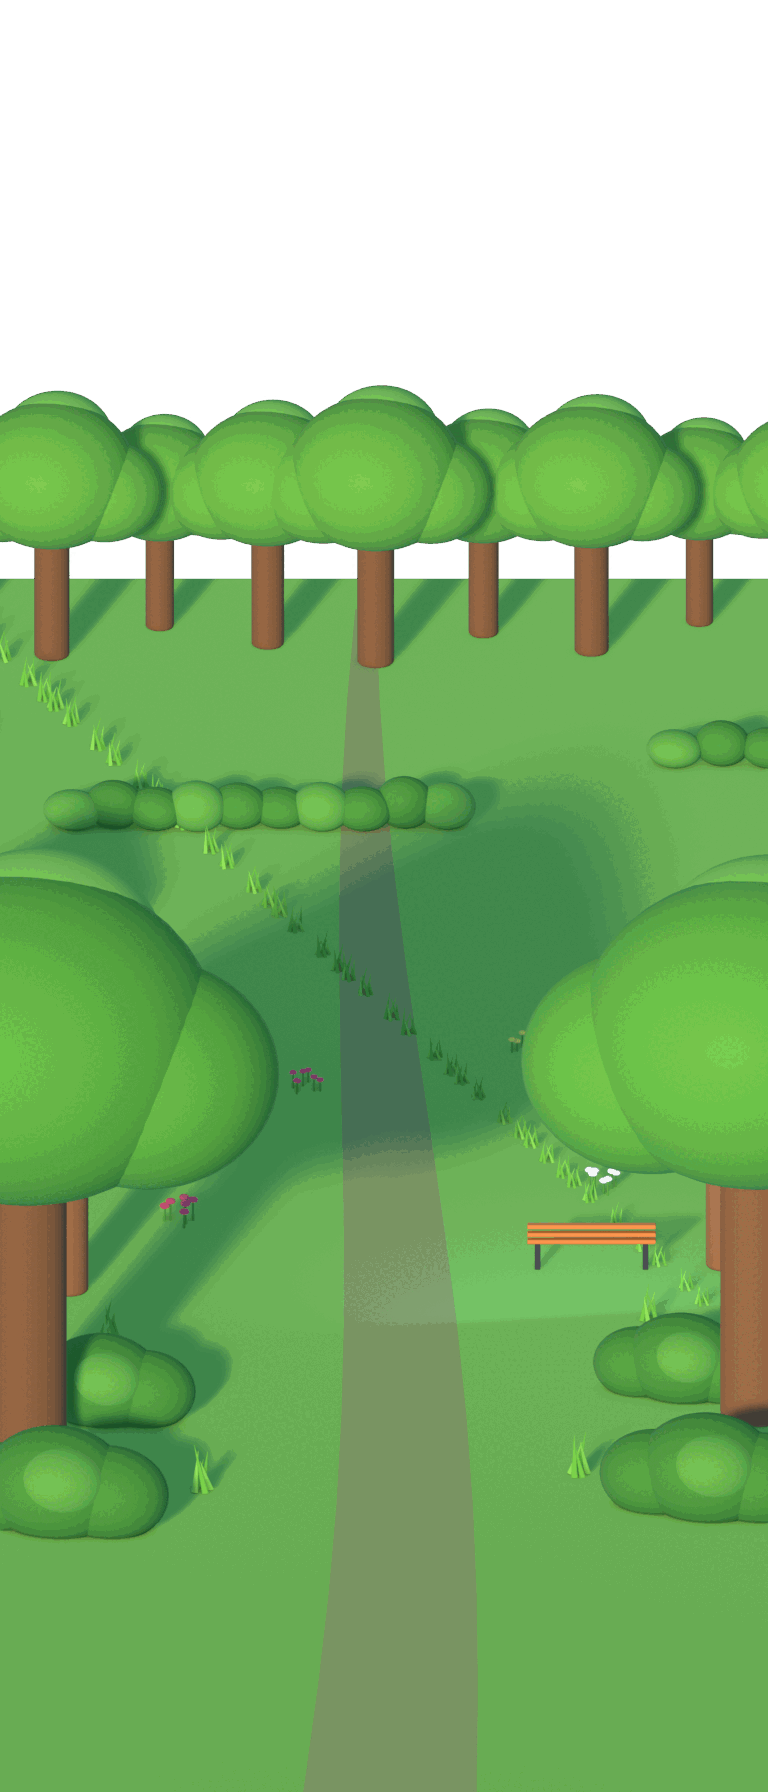
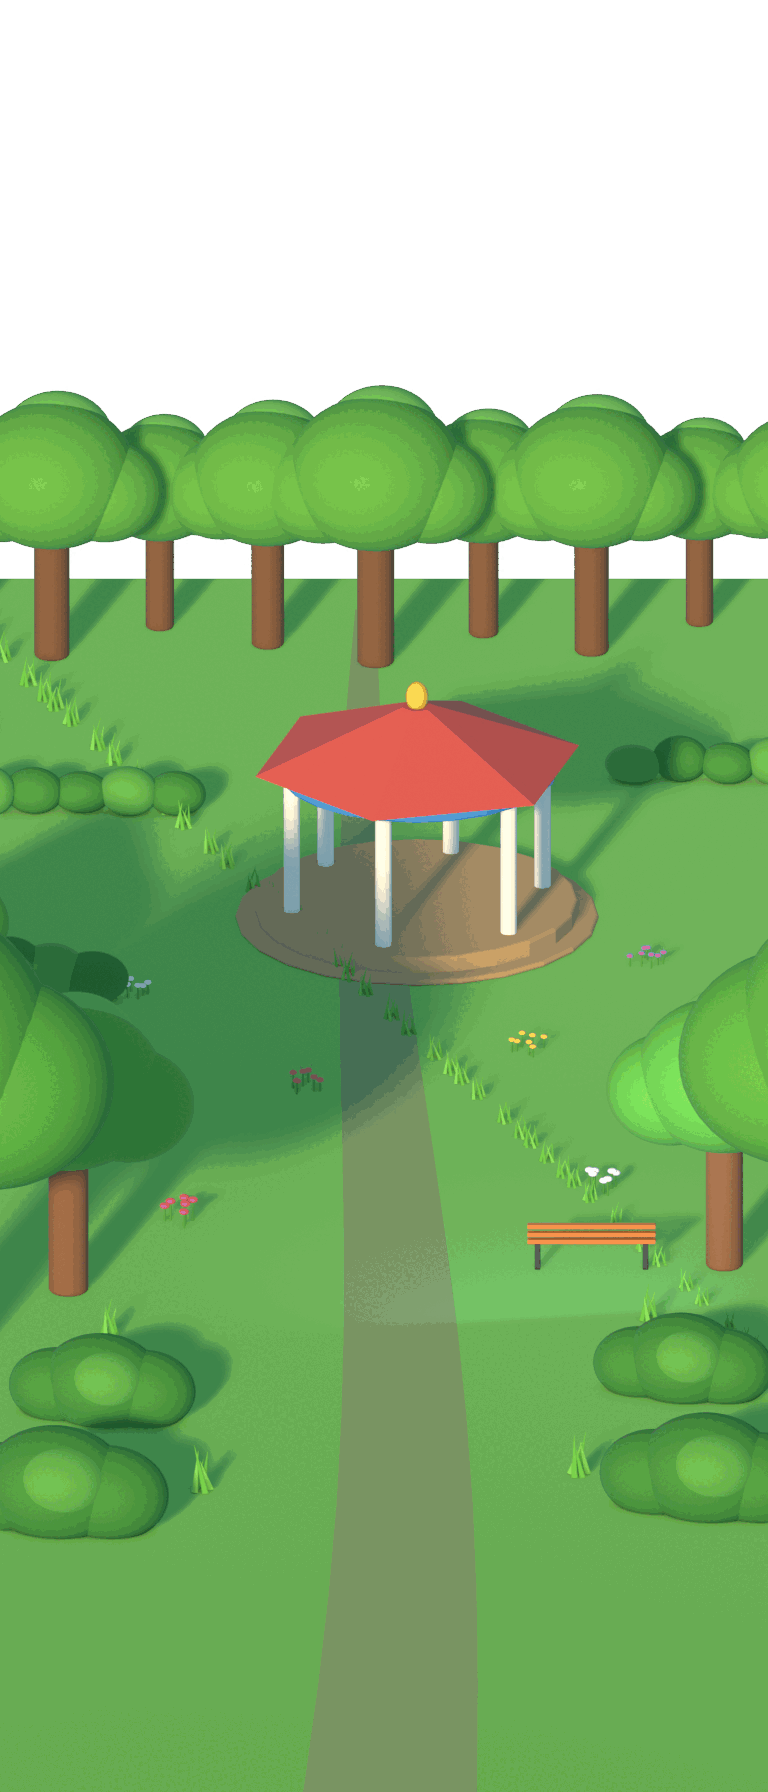
Barkly: the park had scenery and no subject -- a bandstand
Framing trees and flowerbeds made the park a nicer field. Four scenes
side by side said the gap was more basic than that: town has a shopfront
with its name on it, the beach has the lifeguard tower, home has the
window, and the park had nothing you would walk toward.

A bandstand is the right answer for a park specifically. It is
ARCHITECTURE -- the thing town has and the park lacked -- and its
silhouette, a roof on posts and open underneath, reads instantly at any
size without needing detail. Centre-back, so the dog stands in front of
it the way he stands in front of BARKLY'S, which also puts coral and
blue in the middle of the frame instead of only at the edges.

AND THE FRAMING TREES WERE WRONG THE FIRST TIME. At x = +-8.6 in a frame
that is x = +-9.25, a scale-3.2 tree puts its WHOLE canopy inside the
shot: a green mass across the middle of the picture where the dog
stands, framing nothing. One unit of height is cos(21.88)/43.2 of the
frame, so a canopy ten units up lands at 0.53 -- dead centre. A
proscenium is mostly off-stage. They are at x = +-12.2 and +-12.6 now,
trunks out of shot, only the inner edge of each canopy reaching in.

That is twice in one pass that I placed something by where it sits in
the world instead of computing where it lands on screen, with the
manifest publishing the projection needed to do it properly.

Claude-Session: https://claude.ai/code/session_01CJqbtqFeDnedgUGEMwdJjE

Changed region(s): [[0.0, 0.375, 1.0, 0.8125], [0.7812, 0.5625, 1.0, 0.8125], [0.75, 0.625, 0.7812, 0.6562]]

diff --git a/barkly/app/tools/blender/world_scene_pack.py b/barkly/app/tools/blender/world_scene_pack.py
@@ -308,17 +308,23 @@ def park():
     # Near, large, and deliberately cropped by the frame -- they are the
     # proscenium, not scenery. Kept wide of x = +-5, where the app puts the DIG
     # mound and the two NPCs.
-    _tree(-8.6, -13.0, 3.2, canopy="#4FA436", trunk="#7A5233")
-    _tree(9.0, -11.0, 3.0, canopy="#57AC3C", trunk="#83593A")
+    # OUTSIDE the frame, not at its edge. The frame is x = +-9.25, and at
+    # x = -8.6 a scale-3.2 tree put its whole canopy inside the shot: a green
+    # mass across the middle of the picture where the dog stands, which frames
+    # nothing. A proscenium is mostly off-stage -- trunks out of shot, only the
+    # inner edge of each canopy reaching in.
+    _tree(-12.2, -12.0, 3.0, canopy="#4FA436", trunk="#7A5233")
+    _tree(12.6, -10.0, 2.9, canopy="#57AC3C", trunk="#83593A")
 
+    _bandstand(0.8, 21.0, 1.25)
     _bench(5.0, -1.6)
 
     # Middle distance: hedges give the field a middle, which four trees and a
     # bench on open grass do not.
     _hedge(-12.0, 16.0, 10.0, 1.2)
     _hedge(13.5, 13.0, 9.0, 1.15)
-    _hedge(-3.0, 27.0, 9.0, 1.0)
-    _hedge(11.0, 31.0, 8.0, 0.95)
+    _hedge(-9.0, 28.0, 8.0, 1.0)
+    _hedge(10.0, 30.0, 8.0, 0.95)
 
     # A PARK THAT IS ONLY GREEN IS A LAWN. Town carries coral, aqua and violet;
     # the beach carries a red umbrella and a yellow bucket. This had one yellow
@@ -557,6 +563,39 @@ def _path():
         left.append((wobble - w, y))
         right.append((wobble + w, y))
     _poly("path", left + right[::-1], 0.010, dirt)
+
+
+def _bandstand(x: float, y: float, s: float = 1.0):
+    """The park's landmark.
+
+    Four scenes side by side and this was the only one without a subject.
+    Town has a shopfront with its name on it, the beach has the lifeguard
+    tower, home has the window -- the park had scenery and nothing to look at.
+    Framing trees and flowerbeds made it a nicer field; they did not give it a
+    thing you would walk toward.
+
+    A bandstand is the right answer for a park specifically: it is
+    ARCHITECTURE, which is what town has and the park lacked, and its
+    silhouette -- a roof on posts, open underneath -- reads instantly at any
+    size without needing detail. Centre-back, so the dog stands in front of it
+    the way he stands in front of BARKLY'S.
+    """
+    post = pack.material(f"Band post{x:.1f}", "#FFF3DC", roughness=0.72)
+    roof = pack.material(f"Band roof{x:.1f}", "#E1594C", roughness=0.70)
+    trim = pack.material(f"Band trim{x:.1f}", "#3D8FD1", roughness=0.68)
+    base = pack.material(f"Band base{x:.1f}", "#C9A06A", roughness=0.88)
+    finial = pack.material(f"Band finial{x:.1f}", "#F2C13C", roughness=0.60)
+
+    cx, cy = TURN(x, y)
+    pack.cylinder(f"bandbase{x:.1f}", (cx, cy, 0.22 * s), 3.1 * s, 0.44 * s, base, vertices=24)
+    pack.cylinder(f"bandstep{x:.1f}", (cx, cy, 0.06 * s), 3.5 * s, 0.12 * s, base, vertices=24)
+    for i in range(6):
+        a = i / 6.0 * math.tau + 0.26
+        px, py = TURN(x + math.cos(a) * 2.5 * s, y + math.sin(a) * 2.5 * s)
+        pack.cylinder(f"bandpost{x:.1f}{i}", (px, py, 1.75 * s), 0.16 * s, 2.7 * s, post, vertices=12)
+    pack.cylinder(f"bandring{x:.1f}", (cx, cy, 3.18 * s), 2.72 * s, 0.22 * s, trim, vertices=24)
+    pack.cone(f"bandroof{x:.1f}", (cx, cy, 3.85 * s), 3.25 * s, 0.30 * s, 1.15 * s, roof, vertices=6)
+    pack.sphere(f"bandfin{x:.1f}", (cx, cy, 4.62 * s), (0.22 * s, 0.22 * s, 0.30 * s), finial)
 
 
 def _tree(x: float, y: float, s: float, canopy: str = "#5CB03A", trunk: str = "#8A5C39"):
